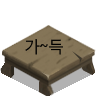
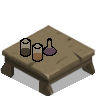
프랍 터치 업그레이드

Changed region(s): [[0.1875, 0.375, 0.6562, 0.6562]]

diff --git a/src/js/game.js b/src/js/game.js
@@ -169,6 +169,7 @@ export default class Game extends EventEmitter {
                 this.exploreMode.interactive = true;
                 this.stage.showPathHighlight = true;
                 this.ui.hideTheaterUI(0.5);
+                this.ui.showMenu();
             });
         }
     }

diff --git a/src/js/prop/stove.js b/src/js/prop/stove.js
@@ -9,7 +9,9 @@ export default class Stove extends PropBase {
     }
 
     touch(game) {
-       console.log('open stove')
+        game.ui.showDialog([
+            { text: "차갑게 식어있다" }
+        ], () => {});
     }
 
     getName() {
